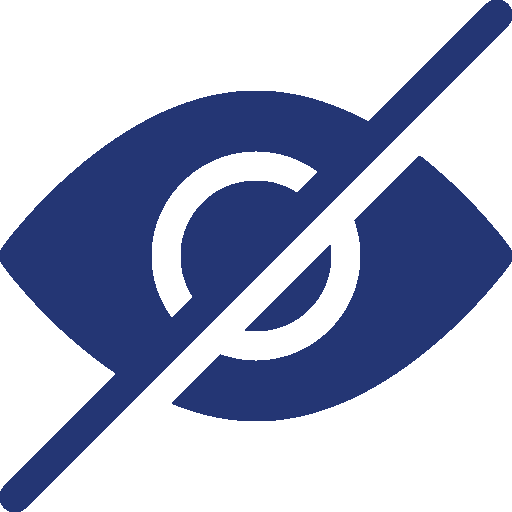
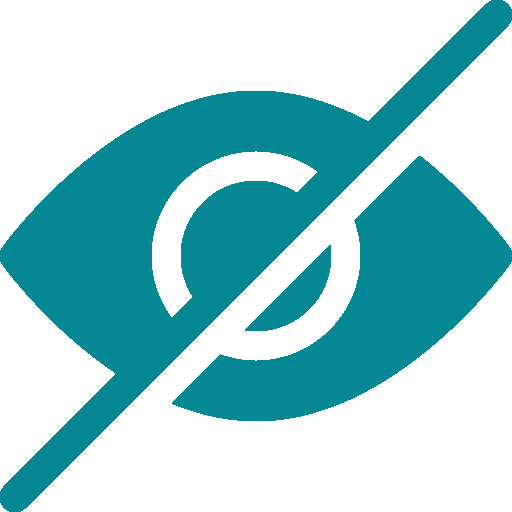
Change colors on project

diff --git a/src/screens/auth/Splash/index.js b/src/screens/auth/Splash/index.js
@@ -9,16 +9,16 @@ const Splash = () => {
             <Image resizeMode="contain" style={styles.image} source={require('../../../assets/splashImage.png')}/>
 
             <View style={styles.titleContainer}>
-                <Text style={styles.title}>You'll Find</Text>
-                <Text style={[styles.title,styles.innertitle]}>All you need</Text>
-                <Text style={styles.title}>Here!</Text>
+                <Text style={styles.title}>Moderan stil za vaš moderan život</Text>
+                <Text style={[styles.title,styles.innertitle]}>Elektroterm 036 </Text>
+                <Text style={styles.title}>Montaža i ugradnja rashladnih uređaja!</Text>
             </View>
             
 
-            <Button title='Sign Up'></Button>
+            <Button title='Registruj se'></Button>
 
             <Pressable hitSlop={20}>
-                <Text style={styles.footerText}> Sign In</Text>
+                <Text style={styles.footerText}> Prijavi se</Text>
             </Pressable>
         </View>
     )

diff --git a/src/screens/auth/Splash/styles.js b/src/screens/auth/Splash/styles.js
@@ -9,30 +9,34 @@ export const styles = StyleSheet.create ({
         flexDirection: 'column',
         justifyContent: 'center',
         alignItems: 'center',   
-        height:'100%'
+        
     },
     titleContainer:{
-        marginVertical:54,
+        marginVertical:35,
     },
     image:{
         width: "100%",
-        height: 200,
+        height: 300,
     },
     title:{
-        fontSize: 40,
+        fontSize: 22,
         fontWeight:'bold',
         textAlign: 'center',
+        color:colors.black
 
     },
     innertitle:{
-        color: colors.orange,
-        textDecorationLine: 'underline'
+        color: colors.splashBlue,
+        textDecorationLine: 'underline',
+        fontSize: 40,
     },
     footerText:{
-        color: colors.blue,
+        color: colors.splashBlue,
         textAlign: 'center',
         fontSize: 16,
         fontWeight: 'bold',
-        marginTop: 30,
+        marginTop: 80,
+        paddingBottom: '100%',
+        
     }
 })

diff --git a/App.js b/App.js
@@ -1,6 +1,8 @@
 import React, { useEffect } from "react";
 import { SafeAreaView, } from "react-native"; 
 import SignUp from "./src/screens/auth/SignUp";
+import Splash from "./src/screens/auth/Splash";
+
 import { GoogleSignin } from '@react-native-google-signin/google-signin';
 import Config from 'react-native-config';
 import SignIn from "./src/screens/auth/SignIn";
@@ -26,7 +28,7 @@ const App = () =>{
   return (
     
       <SafeAreaView>
-        <SignIn/>
+        <SignUp/>
       </SafeAreaView>
    
   );

diff --git a/src/screens/auth/SignUp/styles.js b/src/screens/auth/SignUp/styles.js
@@ -13,7 +13,7 @@ export const styles = StyleSheet.create ({
 
     },
     chackBoxText:{
-        color: colors.blue,
+        color: colors.splashBlue,
         fontWeight: '500',
         marginHorizontal: 13,
     },
@@ -28,9 +28,9 @@ export const styles = StyleSheet.create ({
 
     },
     footerText:{
-        color: colors.blue,
+        color: colors.splashBlue,
         fontWeight: '500',
-        marginBottom:56,
+        marginBottom:30,
         textAlign: 'center',
     }, 
     footerLink:{

diff --git a/src/screens/auth/SignIn/styles.js b/src/screens/auth/SignIn/styles.js
@@ -13,7 +13,7 @@ export const styles = StyleSheet.create ({
 
     },
     chackBoxText:{
-        color: colors.blue,
+        color: colors.splashBlue,
         fontWeight: '500',
         marginHorizontal: 13,
     },
@@ -28,7 +28,7 @@ export const styles = StyleSheet.create ({
 
     },
     footerText:{
-        color: colors.blue,
+        color: colors.splashBlue,
         fontWeight: '500',
         marginBottom:56,
         textAlign: 'center',

diff --git a/src/components/Button/styles.js b/src/components/Button/styles.js
@@ -3,11 +3,12 @@ import { colors } from "../../../utils/colors";
 
 export const styles = StyleSheet.create ({
     container:{
-        backgroundColor: colors.blue,
+        backgroundColor: colors.splashBlue,
         paddingHorizontal:20,
         paddingVertical: 8,
         borderRadius:10,
-        width:'100%'
+        width:'100%',
+        
         
     },
     title:{

diff --git a/src/components/AuthHeader/styles.js b/src/components/AuthHeader/styles.js
@@ -11,13 +11,13 @@ export const styles = StyleSheet.create ({
  
     },
     image:{
-        color: colors.blue,
+        color: colors.splashBlue,
         width:22,
         height:18,
 
     },
     title:{
-        color:colors.blue,
+        color:colors.splashBlue,
         fontSize:26,
         fontWeight:'bold',
         paddingHorizontal:16,

diff --git a/utils/colors.js b/utils/colors.js
@@ -2,9 +2,10 @@ export const colors = {
     blue: '#243674',
     white: '#FFFF',
     orange: '#FCA34D',
-    black: '#0000', 
+    black: '#021a1c', 
     grey: '#8D9BB5',
     lightGrey: '#DADADA',
-    googleBlue: '#3F4A59'
+    googleBlue: '#3F4A59',
+    splashBlue: '#058894'
 
 }

diff --git a/src/components/Input/styles.js b/src/components/Input/styles.js
@@ -8,7 +8,7 @@ export const styles = StyleSheet.create ({
     }, 
     label:{
         marginBottom: 8,
-        color: colors.blue,
+        color: colors.splashBlue,
         fontSize: 14,
         fontWeight: '500',
     },

diff --git a/src/components/Seperator/styles.js b/src/components/Seperator/styles.js
@@ -14,7 +14,7 @@ export const styles = StyleSheet.create ({
         flex:1,
     }, 
     text:{
-        color: colors.blue,
+        color: colors.splashBlue,
         fontWeight: '500',
         marginHorizontal: 8,
     }
